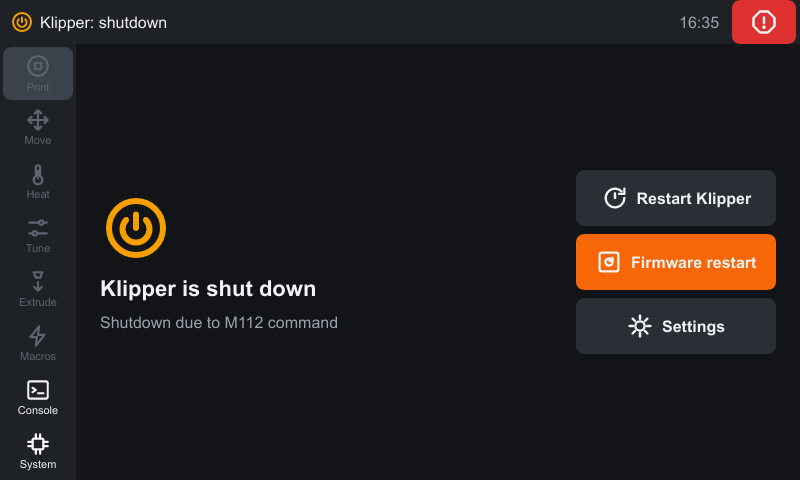
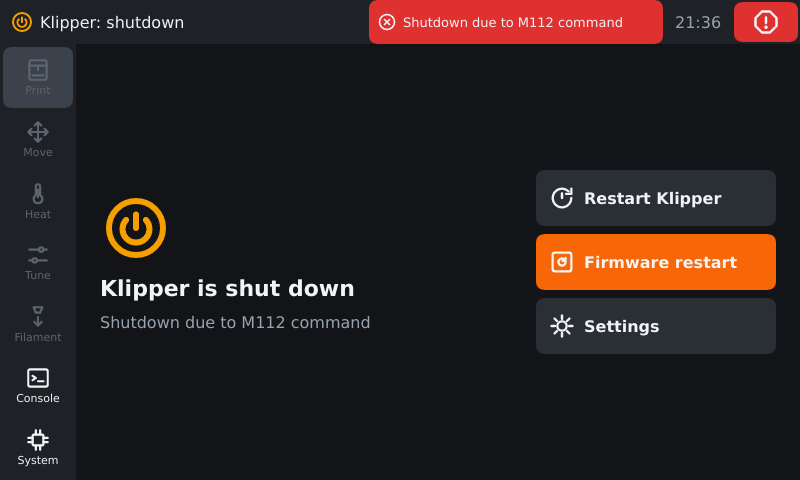
Enhance UI and functionality: add console and filament screenshots, implement markup stripping for plugin responses, and ensure command order integrity in service calls.

diff --git a/crates/app/src/status_log.rs b/crates/app/src/status_log.rs
@@ -47,6 +47,8 @@ pub struct StatusLog {
     next_id: u64,
     /// The message the status bar shows.
     badge: Option<u64>,
+    /// Errors with a smaller id were seen in the flyout.
+    seen_before: u64,
     /// Reason of the last rejected command, to recognise its duplicate response.
     last_failure: Option<(String, f64)>,
 }
@@ -98,18 +100,29 @@ impl StatusLog {
     /// The flyout was opened: the status bar stops showing the message, the list keeps it.
     pub fn mark_seen(&mut self) {
         self.badge = None;
+        self.seen_before = self.next_id;
     }
 
-    /// An information ran out of display time. Hides it only while it is still the one shown.
+    /// An information ran out of display time. Hides it only while it is still the one shown; an error that
+    /// nobody has seen yet comes back, because errors stay until they are seen.
     pub fn hide_badge(&mut self, id: u64) {
         if self.badge == Some(id) {
-            self.badge = None;
+            self.badge = self.newest_unseen_error();
         }
+    }
+
+    fn newest_unseen_error(&self) -> Option<u64> {
+        self.messages
+            .iter()
+            .rev()
+            .find(|message| message.is_error && message.id >= self.seen_before)
+            .map(|message| message.id)
     }
 
     pub fn clear(&mut self) {
         self.messages.clear();
         self.badge = None;
+        self.seen_before = self.next_id;
     }
 }
 
@@ -231,5 +244,42 @@ mod tests {
 
         assert!(log.badge().is_none());
         assert_eq!(log.messages().count(), 0);
+    }
+
+    #[test]
+    fn an_unseen_error_returns_when_a_later_information_runs_out() {
+        let mut log = StatusLog::default();
+        log.add("fault", true, 1.0);
+        let info = log.add("note", false, 2.0);
+        assert_eq!(log.badge().map(Message::headline), Some("note"));
+
+        log.hide_badge(info);
+
+        assert_eq!(log.badge().map(Message::headline), Some("fault"));
+    }
+
+    #[test]
+    fn a_seen_error_does_not_return() {
+        let mut log = StatusLog::default();
+        log.add("fault", true, 1.0);
+        log.mark_seen();
+        let info = log.add("note", false, 2.0);
+
+        log.hide_badge(info);
+
+        assert!(log.badge().is_none());
+    }
+
+    #[test]
+    fn a_new_error_is_unseen_even_after_an_earlier_one_was_seen() {
+        let mut log = StatusLog::default();
+        log.add("old fault", true, 1.0);
+        log.mark_seen();
+        log.add("new fault", true, 2.0);
+        let info = log.add("note", false, 3.0);
+
+        log.hide_badge(info);
+
+        assert_eq!(log.badge().map(Message::headline), Some("new fault"));
     }
 }

diff --git a/crates/app/src/presenter.rs b/crates/app/src/presenter.rs
@@ -550,10 +550,10 @@ impl Presenter {
         if !is_error && !is_information {
             return;
         }
-        let text = strip_response_marker(message);
-        let added = self.status.log.borrow_mut().add_response(text, is_error, now_seconds());
+        let text = response_text(message);
+        let added = self.status.log.borrow_mut().add_response(&text, is_error, now_seconds());
         if let Some(id) = added {
-            self.show_message(id, text, is_error);
+            self.show_message(id, &text, is_error);
         }
     }
 
@@ -695,13 +695,19 @@ fn strip_response_marker(message: &str) -> &str {
     message.strip_prefix("!!").or_else(|| message.strip_prefix("//")).map_or(message, str::trim_start)
 }
 
+/// The text of a response as shown: without its marker and without the HTML of plugins.
+fn response_text(message: &str) -> String {
+    format::strip_markup(strip_response_marker(message))
+}
+
 /// One row per message line: the console list has fixed row heights, so a line break inside a row would overlap its neighbours.
 /// Only the first row of a message shows the time.
 fn console_items(line: &ConsoleLine) -> Vec<ConsoleItem> {
     let time = format::unix_clock(line.time);
     let is_command = line.kind == ConsoleKind::Command;
     let is_error = line.message.starts_with("!!");
-    let mut rows: Vec<&str> = strip_response_marker(&line.message).lines().collect();
+    let text = if is_command { line.message.clone() } else { response_text(&line.message) };
+    let mut rows: Vec<&str> = text.lines().collect();
     if rows.is_empty() {
         rows.push("");
     }
@@ -766,6 +772,15 @@ mod tests {
         let rows = console_items(&line(ConsoleKind::Response, ""));
         assert_eq!(rows.len(), 1);
         assert!(rows[0].text.is_empty());
+    }
+
+    #[test]
+    fn plugin_markup_does_not_reach_the_console() {
+        let rows = console_items(&line(
+            ConsoleKind::Response,
+            r#"// <b><span style="color:#87CEEB">EMPTY</span></b>&nbsp;gate"#,
+        ));
+        assert_eq!(rows[0].text, "EMPTY gate");
     }
 
     #[test]

diff --git a/crates/core/tests/service.rs b/crates/core/tests/service.rs
@@ -93,9 +93,8 @@ async fn follows_happy_hare_gates_sensors_and_loading() {
 
     service.send(Command::MmuHome);
     wait_for(&mut channels, |snapshot| snapshot.status.mmu.as_ref().is_some_and(|mmu| mmu.homed)).await;
+    // Commands reach the printer in the order they were sent, so no waiting between the two.
     service.send(Command::MmuSelectGate { gate: 1 });
-    // Every command is its own request, so the order of two sent at once is not fixed.
-    wait_for(&mut channels, |snapshot| snapshot.status.mmu.as_ref().is_some_and(|mmu| mmu.gate == 1)).await;
     service.send(Command::MmuLoad);
     let snapshot = wait_for(&mut channels, |snapshot| {
         snapshot.status.mmu.as_ref().is_some_and(|mmu| mmu.filament == LoadedFilament::Loaded)
@@ -120,6 +119,25 @@ async fn follows_happy_hare_gates_sensors_and_loading() {
     })
     .await;
     assert_eq!(snapshot.status.mmu.unwrap().gate, 1);
+}
+
+/// Commands sent one after another must reach the printer in that order; a heater target is absolute, so a
+/// swapped pair would leave the printer on the older value.
+#[tokio::test(flavor = "multi_thread")]
+async fn commands_reach_the_printer_in_the_order_they_were_sent() {
+    let endpoint = start_fake().await;
+    let (service, mut channels) = PrinterService::start(&tokio::runtime::Handle::current(), endpoint);
+    wait_for(&mut channels, ready).await;
+
+    for target in 100..200 {
+        service.send(Command::SetHeaterTarget { heater: "extruder".into(), target: f64::from(target) });
+    }
+    wait_for(&mut channels, |snapshot| snapshot.status.heater("extruder").is_some_and(|heater| heater.target == 199.0))
+        .await;
+    // A swapped command would arrive later and move the target away from the last one.
+    tokio::time::sleep(Duration::from_millis(500)).await;
+    let snapshot = channels.snapshots.borrow().clone();
+    assert_eq!(snapshot.status.heater("extruder").map(|heater| heater.target), Some(199.0));
 }
 
 #[tokio::test(flavor = "multi_thread")]

diff --git a/crates/app/src/format.rs b/crates/app/src/format.rs
@@ -27,6 +27,28 @@ pub fn finish_time(now: DateTime<Local>, remaining_seconds: f64) -> String {
     }
 }
 
+/// Happy Hare and other plugins put HTML into their responses for Mainsail (`<span style=...>`, `&nbsp;`); the
+/// touch UI shows the text only. A `<` that does not start a tag stays.
+pub fn strip_markup(text: &str) -> String {
+    let mut plain = String::with_capacity(text.len());
+    let mut rest = text;
+    while let Some(start) = rest.find('<') {
+        let (before, tag_and_after) = rest.split_at(start);
+        plain.push_str(before);
+        let starts_tag =
+            tag_and_after[1..].chars().next().is_some_and(|next| next.is_ascii_alphabetic() || next == '/');
+        match tag_and_after.find('>').filter(|_| starts_tag) {
+            Some(end) => rest = &tag_and_after[end + 1..],
+            None => {
+                plain.push('<');
+                rest = &tag_and_after[1..];
+            }
+        }
+    }
+    plain.push_str(rest);
+    plain.replace("&nbsp;", " ").replace("&lt;", "<").replace("&gt;", ">").replace("&quot;", "\"").replace("&amp;", "&")
+}
+
 pub fn unix_clock(unix_seconds: f64) -> String {
     Local
         .timestamp_opt(unix_seconds as i64, 0)
@@ -99,5 +121,17 @@ mod tests {
         assert_eq!(file_size(1_572_864), "1.5 MB");
         assert_eq!(job_name("parts/Voron Cube.gcode"), "Voron Cube");
         assert_eq!(job_name("plain"), "plain");
+    }
+
+    #[test]
+    fn markup_of_plugin_responses_is_removed() {
+        assert_eq!(
+            strip_markup(r#"<span style="color:#C0C0C0">(\_/)</span> <b>Happy Hare</b> v4.1.0"#),
+            r"(\_/) Happy Hare v4.1.0"
+        );
+        assert_eq!(strip_markup("Gate&nbsp;0 &amp; tool &lt;T0&gt;"), "Gate 0 & tool <T0>");
+        assert_eq!(strip_markup("Move out of range: x < 0 and y <5"), "Move out of range: x < 0 and y <5");
+        assert_eq!(strip_markup("half <span"), "half <span");
+        assert_eq!(strip_markup(""), "");
     }
 }

diff --git a/crates/core/src/service.rs b/crates/core/src/service.rs
@@ -369,17 +369,25 @@ impl<'a> Session<'a> {
         if let Command::RunGcode { script } = &command {
             self.outputs.event(Event::ConsoleLine(console_line(ConsoleKind::Command, script)));
         }
-        let connection = self.connection.clone();
         let events = self.outputs.events.clone();
-        tokio::spawn(async move {
-            if let Err(error) = connection.call(call.method, call.params).await {
-                let message = match error {
-                    CallError::Rpc(rpc) => rpc.message,
-                    CallError::Closed => "connection to Moonraker closed".to_owned(),
-                };
-                let _ = events.send(Event::CommandFailed { command: command.describe(), message });
+        let failed = move |error: CallError| {
+            let message = match error {
+                CallError::Rpc(rpc) => rpc.message,
+                CallError::Closed => "connection to Moonraker closed".to_owned(),
+            };
+            let _ = events.send(Event::CommandFailed { command: command.describe(), message });
+        };
+        // Sent here, in the order of the commands; a task per command could overtake an earlier one.
+        match self.connection.start_call(call.method, call.params) {
+            Ok(pending) => {
+                tokio::spawn(async move {
+                    if let Err(error) = pending.response().await {
+                        failed(error);
+                    }
+                });
             }
-        });
+            Err(error) => failed(error),
+        }
     }
 
     fn answer(&self, query: Query) {

diff --git a/crates/core/src/moonraker/connection.rs b/crates/core/src/moonraker/connection.rs
@@ -44,6 +44,15 @@ pub struct Notification {
     pub params: Value,
 }
 
+/// A request that has been sent; its reply is awaited with [`PendingCall::response`].
+pub struct PendingCall(oneshot::Receiver<Result<Value, RpcError>>);
+
+impl PendingCall {
+    pub async fn response(self) -> Result<Value, CallError> {
+        self.0.await.map_err(|_| CallError::Closed)?.map_err(CallError::from)
+    }
+}
+
 /// Handle to an open connection; cheap to clone.
 #[derive(Clone)]
 pub struct Connection {
@@ -105,6 +114,12 @@ impl Connection {
     }
 
     pub async fn call(&self, method: &str, params: Option<Value>) -> Result<Value, CallError> {
+        self.start_call(method, params)?.response().await
+    }
+
+    /// Puts the request on the wire right away; only the reply is awaited. Requests started one after another
+    /// therefore reach Moonraker in that order, which matters for absolute values (heater targets) and for moves.
+    pub fn start_call(&self, method: &str, params: Option<Value>) -> Result<PendingCall, CallError> {
         let id = self.next_id.fetch_add(1, Ordering::Relaxed);
         let (reply, response) = oneshot::channel();
         lock(&self.pending).as_mut().ok_or(CallError::Closed)?.insert(id, reply);
@@ -114,7 +129,7 @@ impl Connection {
             }
             return Err(CallError::Closed);
         }
-        response.await.map_err(|_| CallError::Closed)?.map_err(CallError::from)
+        Ok(PendingCall(response))
     }
 
     pub fn is_closed(&self) -> bool {

diff --git a/docs/architecture.md b/docs/architecture.md
@@ -60,7 +60,9 @@ flowchart LR
    Every new state goes to the UI as a `Snapshot` through a `watch` channel.
 3. One-off data (files, metadata, thumbnails, power devices, updates, console, errors) arrives as `Event`.
 4. The UI calls `Actions` callbacks; `actions.rs` turns them into `Command`s. `Command::to_call` translates them into
-   G-code or Moonraker methods; moves are clamped to the axis range.
+   G-code or Moonraker methods; moves are clamped to the axis range. Commands go onto the wire in the order they were
+   sent (`Connection::start_call`); only the replies are awaited concurrently. A task per command would let two taps
+   overtake each other, and a heater target is absolute.
 5. `presenter.rs` runs in the Slint event loop (`slint::spawn_local`) and writes the globals `Printer` and `UiSettings`.
 6. Connection loss: state `disconnected`, retry every 2 s; Klippy shutdown/restart via `notify_klippy_*` and
    `server.info` polling.

diff --git a/README.md b/README.md
@@ -21,6 +21,7 @@ So far it has only run against the included fake Moonraker and on desktops.
 | ------------------------------------ | -------------------------------------- | ---------------------------------------------------------- |
 | ![Files](docs/screenshots/files.png) | ![Move](docs/screenshots/move.png)     | ![Temperature](docs/screenshots/temperature.png)           |
 | ![Tune](docs/screenshots/tune.png)   | ![System](docs/screenshots/system.png) | ![Klipper shut down](docs/screenshots/klippy-shutdown.png) |
+| ![Console](docs/screenshots/console.png) | ![Filament](docs/screenshots/filament.png) | ![MMU (Happy Hare)](docs/screenshots/mmu.png)       |
 
 ## Features
 
